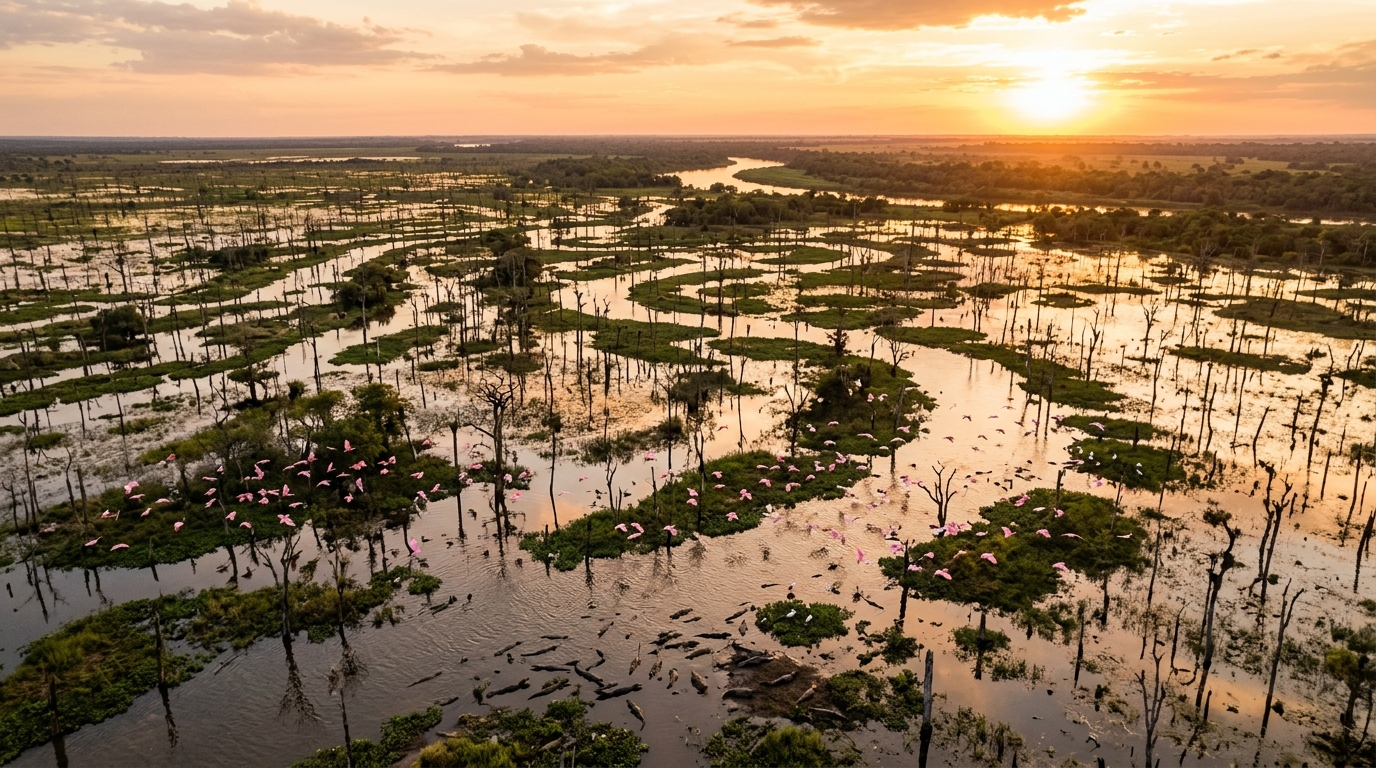
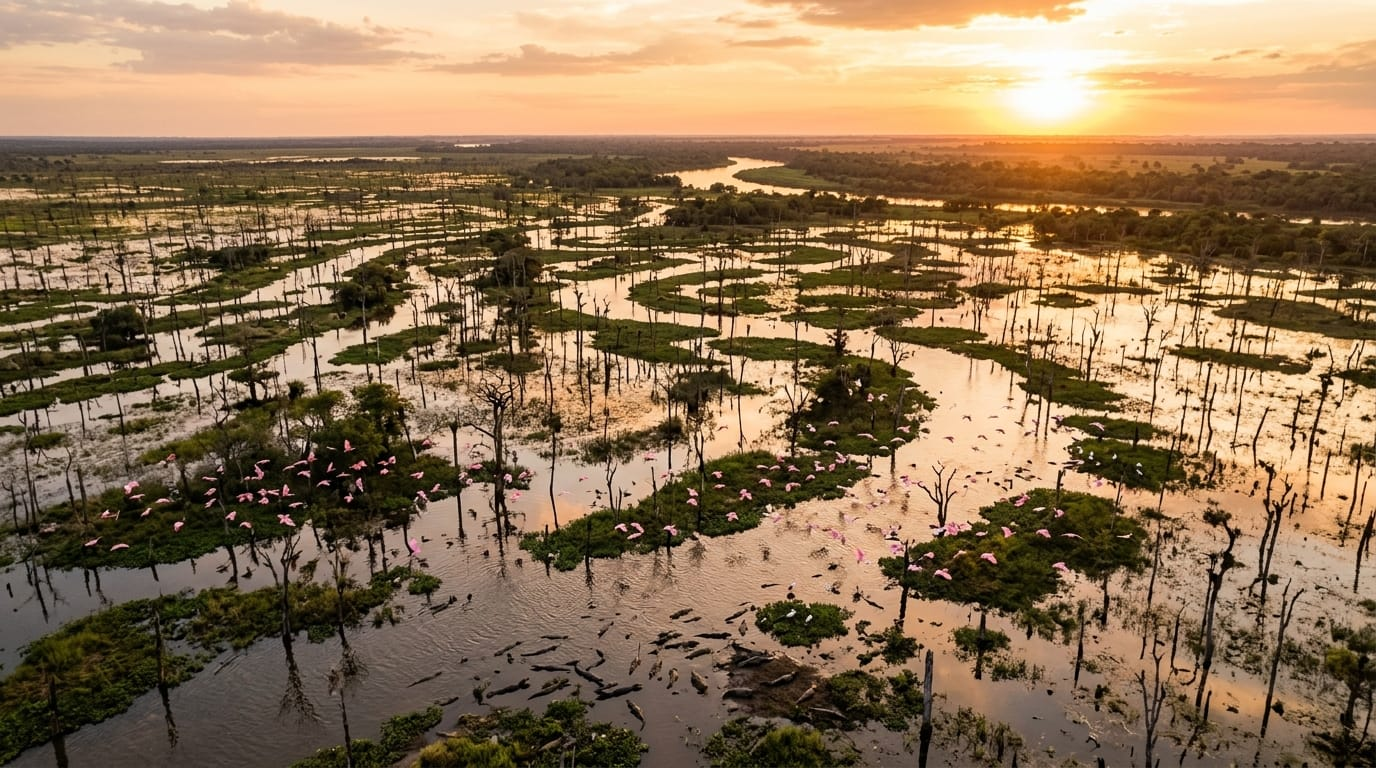
feat: image optimization pipeline with Sharp - auto compress, lazy load, cache headers
- lib/image-optimizer.ts: utility to resize (1600x1200) and convert to WebP 82% quality
- app/api/upload/route.ts: compress all uploaded images via sharp before saving to disk
- scripts/optimize-existing-images.ts: batch compress all existing images in /public/uploads and /public/guia
- next.config.ts: add 1-year Cache-Control immutable headers for /uploads and /guia routes
- components/shared-ui.tsx: add loading=lazy + decoding=async to carousel and photo grid imgs
- components/departments-gallery.tsx: add loading=lazy + decoding=async to all gallery imgs
- components/public-guide-client.tsx: add decoding=async to guide card imgs

Result: existing photos compressed 87-99%, uploads from 456MB to ~30MB

diff --git a/lib/image-optimizer.ts b/lib/image-optimizer.ts
@@ -1,0 +1,100 @@
+import sharp from "sharp";
+
+export interface OptimizeOptions {
+  maxWidth?: number;
+  maxHeight?: number;
+  quality?: number;
+  format?: "webp" | "jpeg" | "original";
+}
+
+/**
+ * Optimizes an image buffer:
+ * - Auto-rotates according to EXIF orientation metadata
+ * - Resizes to maximum bounding box (default 1600x1200) without enlargement
+ * - Compresses to modern WebP (default) or progressive JPEG
+ * - Dramatic reduction in file size (typically 80-95% smaller) while preserving high visual quality
+ */
+export async function optimizeImageBuffer(
+  inputBuffer: Buffer,
+  options: OptimizeOptions = {}
+): Promise<{
+  buffer: Buffer;
+  extension: string;
+  mimeType: string;
+  width?: number;
+  height?: number;
+}> {
+  const {
+    maxWidth = 1600,
+    maxHeight = 1200,
+    quality = 80,
+    format = "webp",
+  } = options;
+
+  try {
+    const image = sharp(inputBuffer, { failOnError: false }).rotate();
+    const metadata = await image.metadata();
+
+    // Check if it's already small enough and should stay original
+    let pipeline = image.resize({
+      width: maxWidth,
+      height: maxHeight,
+      fit: "inside",
+      withoutEnlargement: true,
+    });
+
+    if (format === "webp") {
+      pipeline = pipeline.webp({
+        quality,
+        effort: 4,
+      });
+      const outputBuffer = await pipeline.toBuffer();
+      return {
+        buffer: outputBuffer,
+        extension: "webp",
+        mimeType: "image/webp",
+        width: metadata.width,
+        height: metadata.height,
+      };
+    } else if (format === "jpeg") {
+      pipeline = pipeline.jpeg({
+        quality,
+        progressive: true,
+        mozjpeg: true,
+      });
+      const outputBuffer = await pipeline.toBuffer();
+      return {
+        buffer: outputBuffer,
+        extension: "jpg",
+        mimeType: "image/jpeg",
+        width: metadata.width,
+        height: metadata.height,
+      };
+    } else {
+      // Keep original format but compress & resize
+      const origFormat = metadata.format || "jpeg";
+      if (origFormat === "png") {
+        pipeline = pipeline.png({ quality, compressionLevel: 8 });
+      } else if (origFormat === "webp") {
+        pipeline = pipeline.webp({ quality });
+      } else {
+        pipeline = pipeline.jpeg({ quality, progressive: true });
+      }
+      const outputBuffer = await pipeline.toBuffer();
+      return {
+        buffer: outputBuffer,
+        extension: origFormat === "jpeg" ? "jpg" : origFormat,
+        mimeType: `image/${origFormat}`,
+        width: metadata.width,
+        height: metadata.height,
+      };
+    }
+  } catch (error) {
+    console.warn("Could not optimize image with sharp, returning original buffer:", error);
+    return {
+      buffer: inputBuffer,
+      extension: "jpg",
+      mimeType: "image/jpeg",
+    };
+  }
+}

diff --git a/scripts/optimize-existing-images.ts b/scripts/optimize-existing-images.ts
@@ -1,0 +1,81 @@
+import fs from "fs";
+import path from "path";
+import sharp from "sharp";
+
+async function optimizeDirectory(dirPath: string) {
+  if (!fs.existsSync(dirPath)) {
+    console.log(`Directory ${dirPath} does not exist.`);
+    return;
+  }
+
+  const entries = fs.readdirSync(dirPath, { withFileTypes: true });
+
+  for (const entry of entries) {
+    const fullPath = path.join(dirPath, entry.name);
+
+    if (entry.isDirectory()) {
+      await optimizeDirectory(fullPath);
+    } else if (entry.isFile()) {
+      const ext = path.extname(entry.name).toLowerCase();
+      if (![".jpg", ".jpeg", ".png", ".webp"].includes(ext)) continue;
+
+      const stat = fs.statSync(fullPath);
+      const originalSize = stat.size;
+
+      // Skip files already under 150KB
+      if (originalSize < 150 * 1024) continue;
+
+      try {
+        const inputBuffer = fs.readFileSync(fullPath);
+        const image = sharp(inputBuffer, { failOnError: false }).rotate();
+        const meta = await image.metadata();
+
+        let pipeline = image.resize({
+          width: 1600,
+          height: 1200,
+          fit: "inside",
+          withoutEnlargement: true,
+        });
+
+        let outputBuffer: Buffer;
+
+        if (ext === ".png") {
+          outputBuffer = await pipeline.png({ quality: 80, compressionLevel: 8 }).toBuffer();
+        } else if (ext === ".webp") {
+          outputBuffer = await pipeline.webp({ quality: 80 }).toBuffer();
+        } else {
+          // jpg / jpeg
+          outputBuffer = await pipeline.jpeg({ quality: 80, progressive: true, mozjpeg: true }).toBuffer();
+        }
+
+        // Only overwrite if it actually saved space
+        if (outputBuffer.length < originalSize) {
+          fs.writeFileSync(fullPath, outputBuffer);
+          const savedPct = Math.round(((originalSize - outputBuffer.length) / originalSize) * 100);
+          console.log(
+            `✓ Optimized: ${entry.name} (${Math.round(originalSize / 1024)}KB → ${Math.round(
+              outputBuffer.length / 1024
+            )}KB, -${savedPct}%)`
+          );
+        }
+      } catch (err) {
+        console.warn(`Could not optimize ${entry.name}:`, err);
+      }
+    }
+  }
+}
+
+async function main() {
+  console.log("=== STARTING IMAGE OPTIMIZATION ===");
+  const publicDir = path.join(process.cwd(), "public");
+
+  console.log("\n1. Optimizing /public/guia...");
+  await optimizeDirectory(path.join(publicDir, "guia"));
+
+  console.log("\n2. Optimizing /public/uploads...");
+  await optimizeDirectory(path.join(publicDir, "uploads"));
+
+  console.log("\n=== OPTIMIZATION COMPLETED ===");
+}
+
+main().catch(console.error);

diff --git a/components/shared-ui.tsx b/components/shared-ui.tsx
@@ -36,7 +36,7 @@ export function ImageCarousel({ images, name }: { images: string[], name: string
   const [currentIndex, setCurrentIndex] = useState(0);
 
   if (images.length === 0) {
-    return <img src="https://images.unsplash.com/photo-1522708323590-d24dbb6b0267?auto=format&fit=crop&q=80" alt={name} className="w-full h-full object-cover" />;
+    return <img src="https://images.unsplash.com/photo-1522708323590-d24dbb6b0267?auto=format&fit=crop&q=80" alt={name} className="w-full h-full object-cover" loading="lazy" decoding="async" />;
   }
 
   const next = (e: React.MouseEvent) => {
@@ -53,7 +53,7 @@ export function ImageCarousel({ images, name }: { images: string[], name: string
 
   return (
     <div className="relative w-full h-full group">
-      <img src={images[currentIndex]} alt={`${name} - foto ${currentIndex + 1}`} className="w-full h-full object-cover transition-opacity duration-300" />
+      <img src={images[currentIndex]} alt={`${name} - foto ${currentIndex + 1}`} className="w-full h-full object-cover transition-opacity duration-300" loading="lazy" decoding="async" />
       
       {images.length > 1 && (
         <>
@@ -193,7 +193,7 @@ export function DepartmentModal({ dept, parsedImages, onClose }: { dept: SharedD
                     className={`relative rounded-xl overflow-hidden cursor-pointer group ${idx === 0 ? 'col-span-2 row-span-2 h-64 md:h-[400px]' : 'h-32 md:h-[194px]'} ${idx === 4 && parsedImages.length > 5 ? 'opacity-90' : ''}`}
                     onClick={() => setLightboxIndex(idx)}
                   >
-                    <img src={img} alt={`${dept.name} ${idx + 1}`} className="w-full h-full object-cover transition-transform duration-700 group-hover:scale-110" />
+                    <img src={img} alt={`${dept.name} ${idx + 1}`} className="w-full h-full object-cover transition-transform duration-700 group-hover:scale-110" loading="lazy" decoding="async" />
                     <div className="absolute inset-0 bg-black/0 group-hover:bg-black/10 transition-colors" />
                     {idx === 4 && parsedImages.length > 5 && (
                        <div className="absolute inset-0 bg-black/40 flex items-center justify-center">

diff --git a/components/departments-gallery.tsx b/components/departments-gallery.tsx
@@ -105,13 +105,14 @@ function Lightbox({ images, index, onClose }: { images: string[]; index: number;
       </>}
       <img src={images[current]} alt={`foto ${current + 1}`}
         className="max-w-full max-h-[88vh] object-contain rounded-xl select-none"
+        loading="lazy" decoding="async"
         onClick={e => e.stopPropagation()} />
       <div className="absolute bottom-16 left-1/2 -translate-x-1/2 text-white/50 text-sm">{current + 1} / {images.length}</div>
       <div className="absolute bottom-5 left-1/2 -translate-x-1/2 flex gap-2 overflow-x-auto max-w-lg px-4">
         {images.map((img, i) => (
           <button key={i} onClick={e => { e.stopPropagation(); setCurrent(i); }}
             className={`shrink-0 w-10 h-10 rounded-lg overflow-hidden border-2 transition-all ${i === current ? "border-white" : "border-transparent opacity-40 hover:opacity-70"}`}>
-            <img src={img} alt="" className="w-full h-full object-cover" />
+            <img src={img} alt="" className="w-full h-full object-cover" loading="lazy" decoding="async" />
           </button>
         ))}
       </div>
@@ -262,7 +263,7 @@ function PhotoGallery({ images, onLightbox }: { images: string[]; onLightbox: (i
               onClick={e => { e.stopPropagation(); setCurrent(i); }}
               className={`shrink-0 w-14 h-14 rounded-xl overflow-hidden border-2 transition-all ${i === current ? "border-white scale-105 shadow-xl" : "border-white/30 opacity-60 hover:opacity-90"}`}
             >
-              <img src={img} alt="" className="w-full h-full object-cover" />
+              <img src={img} alt="" className="w-full h-full object-cover" loading="lazy" decoding="async" />
             </button>
           ))}
         </div>

diff --git a/app/api/upload/route.ts b/app/api/upload/route.ts
@@ -2,6 +2,7 @@ import { NextRequest, NextResponse } from "next/server";
 import { writeFile, mkdir } from "fs/promises";
 import path from "path";
 import { auth } from "@/auth";
+import { optimizeImageBuffer } from "@/lib/image-optimizer";
 
 export const dynamic = "force-dynamic";
 export const maxDuration = 60;
@@ -39,14 +40,26 @@ export async function POST(req: NextRequest) {
 
     for (const file of files) {
       const bytes = await file.arrayBuffer();
-      const buffer = Buffer.from(bytes);
+      const rawBuffer = Buffer.from(bytes);
+
+      // Auto-resize and compress to webp for ultra fast loading and low bandwidth
+      const { buffer: optimizedBuffer, extension } = await optimizeImageBuffer(rawBuffer, {
+        maxWidth: 1600,
+        maxHeight: 1200,
+        quality: 82,
+        format: "webp",
+      });
 
       const uniqueSuffix = `${Date.now()}-${Math.round(Math.random() * 1e9)}`;
-      const safeName = file.name.replace(/[^a-zA-Z0-9À-ÿ._-]/g, "_");
-      const filename = `${uniqueSuffix}-${safeName}`;
+      const baseNameWithoutExt = file.name
+        .replace(/\.[^/.]+$/, "")
+        .replace(/[^a-zA-Z0-9À-ÿ_-]/g, "_")
+        .slice(0, 40);
+
+      const filename = `${uniqueSuffix}-${baseNameWithoutExt}.${extension}`;
       const filepath = path.join(uploadsDir, filename);
 
-      await writeFile(filepath, buffer);
+      await writeFile(filepath, optimizedBuffer);
 
       uploadedUrls.push(`/uploads/${subDir}/${filename}`);
     }

diff --git a/next.config.ts b/next.config.ts
@@ -1,13 +1,36 @@
 import type { NextConfig } from "next";
 
-const nextConfig = {
+const nextConfig: NextConfig = {
   output: "standalone",
   compress: true, // Gzip compression
   poweredByHeader: false, // Security/Size
   reactStrictMode: true,
   images: {
-    minimumCacheTTL: 60,
-    formats: ['image/avif', 'image/webp'], // Modern formats
+    minimumCacheTTL: 86400,
+    formats: ["image/avif", "image/webp"],
+  },
+
+  async headers() {
+    return [
+      {
+        source: "/uploads/:path*",
+        headers: [
+          {
+            key: "Cache-Control",
+            value: "public, max-age=31536000, immutable",
+          },
+        ],
+      },
+      {
+        source: "/guia/:path*",
+        headers: [
+          {
+            key: "Cache-Control",
+            value: "public, max-age=31536000, immutable",
+          },
+        ],
+      },
+    ];
   },
 
   typescript: {

diff --git a/components/public-guide-client.tsx b/components/public-guide-client.tsx
@@ -509,6 +509,7 @@ function GuideCard({ item }: { item: GuideItem }) {
           alt={item.title}
           className="w-full h-full object-cover group-hover:scale-105 transition-transform duration-500"
           loading="lazy"
+          decoding="async"
         />
         {/* Overlay gradient */}
         <div className="absolute inset-0 bg-gradient-to-t from-black/50 via-transparent to-transparent" />
